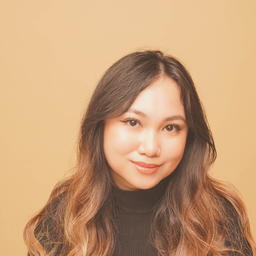
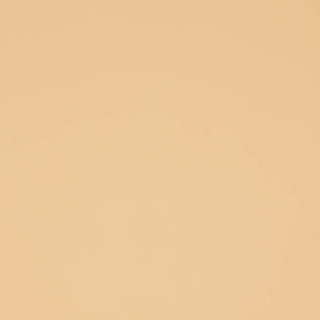
Update footer CTA, profile info, centered circle photo, and section links

diff --git a/src/components/Footer.tsx b/src/components/Footer.tsx
@@ -47,10 +47,10 @@ export const Footer: React.FC<FooterProps> = ({ onOpenContact }) => {
               <IconShieldCheck size={14} /> Immediate Capacity
             </span>
             <h3 style={{ fontSize: '2rem', color: '#ffffff', marginBottom: '0.5rem' }}>
-              Ready to automate and stabilize your property operations?
+              Ready to streamline your day-to-day operations?
             </h3>
             <p style={{ color: 'var(--text-on-dark-muted)', fontSize: '0.98rem' }}>
-              Directly supporting holiday home operators, property managers, and real estate principals across Australia and the UAE.
+              Providing reliable administrative, executive, and operational support across Australia and the UAE.
             </p>
           </div>
 
@@ -96,8 +96,8 @@ export const Footer: React.FC<FooterProps> = ({ onOpenContact }) => {
             <div style={{ display: 'flex', alignItems: 'center', gap: '0.75rem', marginBottom: '1rem' }}>
               <div
                 style={{
-                  width: '38px',
-                  height: '38px',
+                  width: '40px',
+                  height: '40px',
                   borderRadius: '50%',
                   overflow: 'hidden',
                   border: '1.5px solid var(--gold-400)',
@@ -106,12 +106,19 @@ export const Footer: React.FC<FooterProps> = ({ onOpenContact }) => {
                   alignItems: 'center',
                   justifyContent: 'center',
                   flexShrink: 0,
+                  backgroundColor: 'var(--bg-warm-tint)',
                 }}
               >
                 <img
-                  src="/favicon.png"
+                  src="/lauren-avatar.png"
                   alt="Lauren Joyce Tugadi"
-                  style={{ width: '100%', height: '100%', objectFit: 'cover', display: 'block' }}
+                  style={{
+                    width: '100%',
+                    height: '100%',
+                    objectFit: 'cover',
+                    objectPosition: 'center center',
+                    display: 'block',
+                  }}
                 />
               </div>
               <div style={{ fontFamily: 'var(--font-serif)', fontSize: '1.2rem', fontWeight: 700, color: '#ffffff' }}>
@@ -119,10 +126,10 @@ export const Footer: React.FC<FooterProps> = ({ onOpenContact }) => {
               </div>
             </div>
             <p style={{ fontSize: '0.88rem', color: 'var(--text-on-dark-muted)', lineHeight: 1.6, marginBottom: '1.25rem' }}>
-              Senior Real Estate & Holiday Home Operations Virtual Assistant with 8+ years experience supporting 1,030+ properties across Australia and the UAE.
+              Administrative, Executive & Operations Virtual Assistant with 8+ years of experience supporting Australian businesses and international teams.
             </p>
             <div style={{ fontSize: '0.78rem', color: 'var(--text-on-dark-muted)' }}>
-              Laguna, Philippines • Flexible AU (AEST) Hours
+              Laguna, Philippines • Flexible AU (AEST/AEDT) Hours
             </div>
           </div>
 
@@ -149,7 +156,7 @@ export const Footer: React.FC<FooterProps> = ({ onOpenContact }) => {
                   onMouseEnter={(e) => (e.currentTarget.style.color = '#ffffff')}
                   onMouseLeave={(e) => (e.currentTarget.style.color = 'var(--text-on-dark-muted)')}
                 >
-                  Core Specializations
+                  Operational Specializations
                 </button>
               </li>
               <li>
@@ -169,7 +176,7 @@ export const Footer: React.FC<FooterProps> = ({ onOpenContact }) => {
                   onMouseEnter={(e) => (e.currentTarget.style.color = '#ffffff')}
                   onMouseLeave={(e) => (e.currentTarget.style.color = 'var(--text-on-dark-muted)')}
                 >
-                  Career & Case Milestones
+                  Career Milestones
                 </button>
               </li>
               <li>
@@ -209,7 +216,7 @@ export const Footer: React.FC<FooterProps> = ({ onOpenContact }) => {
                   onMouseEnter={(e) => (e.currentTarget.style.color = '#ffffff')}
                   onMouseLeave={(e) => (e.currentTarget.style.color = 'var(--text-on-dark-muted)')}
                 >
-                  Zero-Downtime Guarantee
+                  Reliability Guarantee
                 </button>
               </li>
               <li>

diff --git a/src/components/Navbar.tsx b/src/components/Navbar.tsx
@@ -103,7 +103,7 @@ export const Navbar: React.FC<NavbarProps> = ({ onOpenContact }) => {
             }}
           >
             <img
-              src="/favicon.png"
+              src="/lauren-avatar.png"
               alt="Lauren Joyce Tugadi"
               style={{
                 width: '100%',
